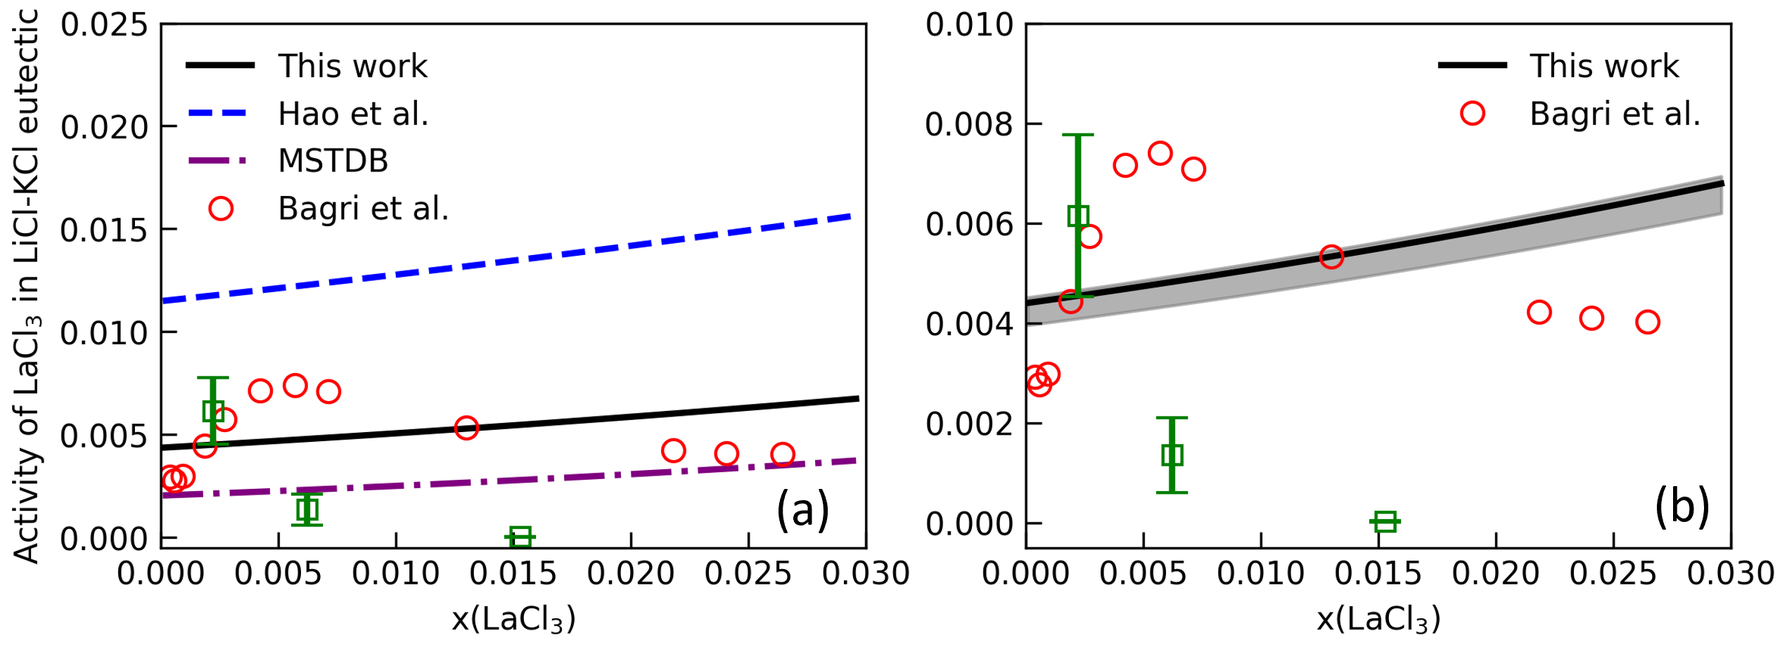
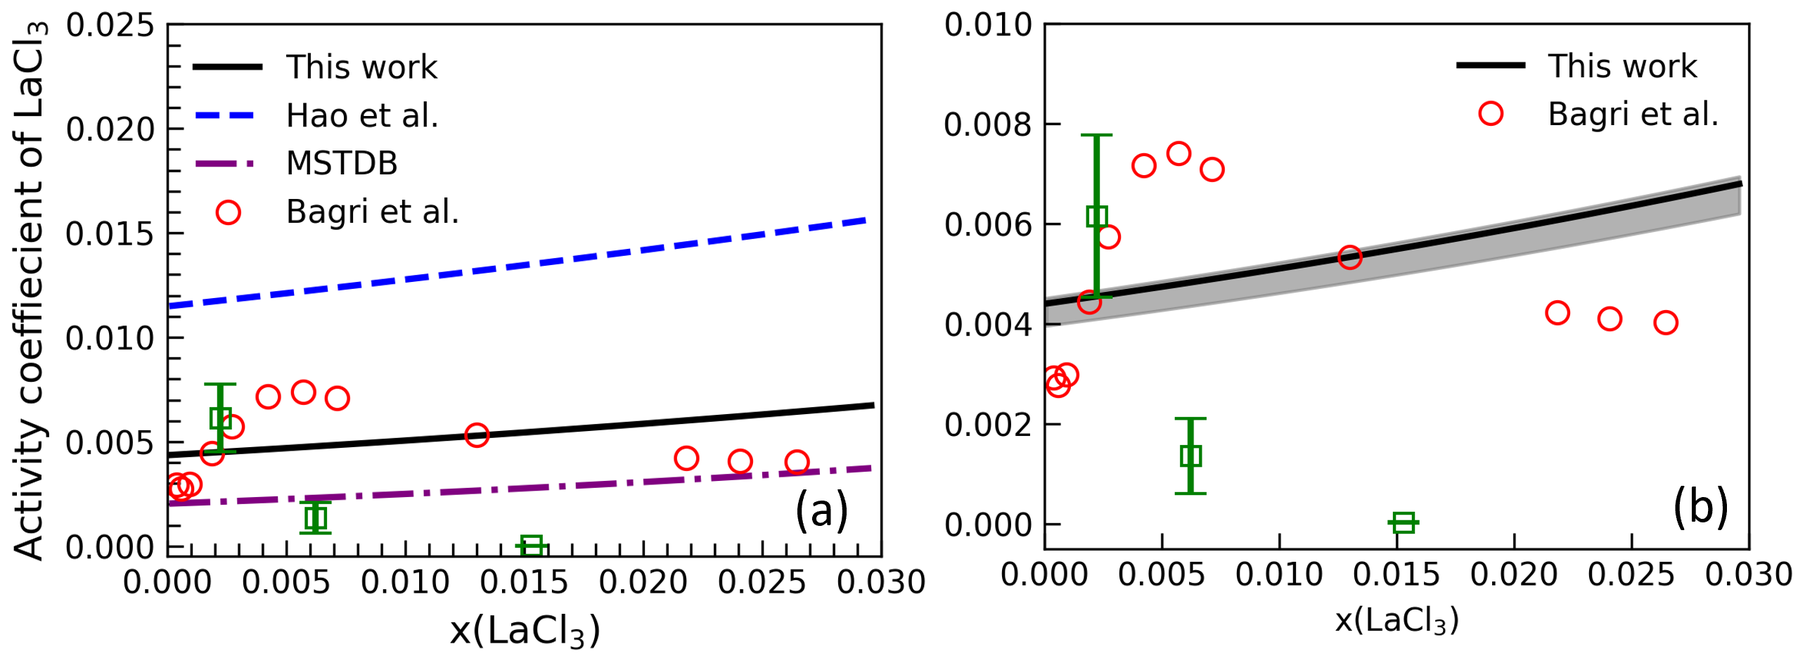
Final version

diff --git a/moltensalts.tex b/moltensalts.tex
@@ -354,7 +354,7 @@ In the CALPHAD community, several thermodynamic models, including the associate 
 
 The LiCl-KCl-LaCl$_3$ system contains the liquid phase, three binary compounds of LiCl, KCl, and LaCl$_3$, and two ternary compounds of K$_2$LaCl$_5$ and K$_3$La$_5$Cl$_{18}$ as summarized by Hao et al. \cite{hao2024thermodynamic}. K$_2$LaCl$_5$ was reported with a Pnma structure measured by Meyer et al. \cite{meyer1983k2mcl5}. Seifert et al. \cite{seifert1985thermodynamic} determined the structure of K$_3$La$_5$Cl$_{18}$ with a space group of $P6_3/m$ through X-ray diffraction. The values of formation enthalpy of K$_2$LaCl$_5$ and K$_3$La$_5$Cl$_{18}$ were measured by Seifert et al. \cite{seifert1985thermodynamic} using solution calorimetry. Reuter and Seifert \cite{reuter1994heat} reported the heat capacity values of K$_2$LaCl$_5$ and K$_3$La$_5$Cl$_{18}$ using differential scanning calorimetry (DSC). Gaune-Escard and Rycerz \cite{gaune1999heat} also measured the heat capacity of K$_3$La$_5$Cl$_{18}$ using DSC. Papatheodorou and Ostvold \cite{papatheodorou1974thermodynamic} reported mixing enthalpy in KCl-LaCl$_3$ through calorimetric experiments. Qiao et al. \cite{qiao1989measurement} utilized the differential thermal analysis (DTA) techniques to determine melting and phase transition temperatures. In the KCl-LaCl$_3$ system, Song and Zheng \cite{song1995investigation} measured liquidus by DTA. Seifert et al. \cite{seifert1985thermodynamic} measured phase boundaries in the LaCl$_3$-rich range by DTA.
 
-In the ternary LiCl-KCl-LaCl$_3$ system, Bagri and Simpson \cite{bagri2016determination} and Samin et al. \cite{samin2016estimation} reported activity values for LaCl$_3$ in molten LiCl-KCl eutectic salt using electromotive force measurements and cyclic voltammetry, respectively. Regarding the phase diagram, Song and Zheng \cite{song1995investigation} reported the liquidus projection and six isopleths. Two research works, by Nakamura et al. \cite{nakamura1997thermal} and Venkata Krishnan et al. \cite{venkata2006pseudo}, constructed the pseudo-binary phase diagram from the LiCl-KCl eutectic to 25 mol\% of LaCl$_3$ in the LiCl-KCl eutectic through DSC.
+In the ternary LiCl-KCl-LaCl$_3$ system, Bagri and Simpson \cite{bagri2016determination} and Samin et al. \cite{samin2016estimation} reported activity coefficients values for LaCl$_3$ in molten LiCl-KCl eutectic salt using electromotive force measurements and cyclic voltammetry, respectively. Regarding the phase diagram, Song and Zheng \cite{song1995investigation} reported the liquidus projection and six isopleths. Two research works, by Nakamura et al. \cite{nakamura1997thermal} and Venkata Krishnan et al. \cite{venkata2006pseudo}, constructed the pseudo-binary phase diagram from the LiCl-KCl eutectic to 25 mol\% of LaCl$_3$ in the LiCl-KCl eutectic through DSC. Mixing enthalpies of LaCl$_3$ in LiCl-KCl eutectic with the LaCl3 concentration from 0 to ~80 mol\% have also been studied by Goncharov et al. \cite{Goncharov2024}, using both high-temperature drop calorimetry and ab initio molecular dynamics. 
 
 \subsection{Modeling details} \label{moltensalts:ssec:LaCl3model}
 Four frequently used models to describe complex molten salts are considered for the liquid phase in the KCl-LaCl$_3$, including the associate model \cite{sommer1982association}, the two-sublattice ionic model \cite{hillert1985two}, and the MQMQA \cite{pelton2001modified} (two sets of coordination numbers). 
@@ -420,7 +420,7 @@ where $g_{\rm KLa/{\rm Cl}_2}^{ij}$is a function of temperature and independent 
 \end{equation}
 where $X_{\rm KLa:Cl_2}$ is the fraction of $\left(\rm KLaCl_2\right)_{quad}$. 
 
-All model parameters in the present work were optimized through the Bayesian approach using the MCMC method as implemented in ESPEI \cite{bocklund2019espei}. Each model parameter employed two Markov chains with a standard derivation of 0.1 when initializing its Gaussian distribution. During the modeling process, the chain values can be tracked and the MCMC processes were performed until the model parameters converged. The input data included primarily experimental phase equilibrium data for two or more co-existing phases, mixing enthalpy data, and activity data from the literature. For stochiometric compounds, their thermochemical data from DFT-based calculations were also used as input. 
+All model parameters in the present work were optimized through the Bayesian approach using the MCMC method as implemented in ESPEI \cite{bocklund2019espei}. Each model parameter employed two Markov chains with a standard derivation of 0.1 when initializing its Gaussian distribution. During the modeling process, the chain values can be tracked and the MCMC processes were performed until the model parameters converged. The input data included primarily experimental phase equilibrium data for two or more co-existing phases, mixing enthalpy data, and activity coefficients data from the literature. For stochiometric compounds, their thermochemical data from DFT-based calculations were also used as input. 
 
 The ternary compounds in the KCl-LaCl$_3$ system are considered stoichiometric compounds, including K$_2$LaCl$_5$ and K$_3$La$_5$Cl$_{18}$. Thermodynamic functions of the binary endmembers KCl and LaCl$_3$ are sourced from the JANAF tables \cite{chase1982janaf} and the SSUB database \cite{sgteurl}. The Gibbs energy for a given compound is expressed as in (\ref{ms:eq:Gstoi}). For these ternary compounds, their thermodynamic data including enthalpy, entropy, and heat capacity are obtained through DFT-based first-principles and phonon calculations. All DFT-based first-principles and phonon calculations in the present work were performed by the VASP \cite{kresse1996efficient}. The plane-wave basis cutoff energy was 262 eV for structural relaxations and 520 eV for the final static calculations of total energy. The convergent criterion of electronic self-consistency was set as $5\times10^{−6}$ eV/atom for relaxations and static calculations. Seifert et al. \cite{seifert1985thermodynamic} reported that K$_3$La$_5$Cl$_{18}$ possesses the symmetry of $P6_3/m$ with three Wyckoff sites of 2b, 2c, and 6h. However, the occupancy of the 2b site is less than 1, while the 2c site is occupied by both K and La atoms. Considering these, ATAT \cite{van2009multicomponent} was used to search for all possible configurations under these conditions, and 9 symmetry inequivalent configurations were found in terms of a 26-atom unit cell. The configuration with the lowest energy was predicted using DFT calculations. Phonon calculations were performed using the supercell method. Table \ref{ms:tab:ladftsetting} provides detailed settings for DFT-based first-principles and phonon calculations, including reciprocal k-points meshes and supercell sizes for phonon calculations, which ensures the convergence and accuracy of the DFT calculations.
 
@@ -532,7 +532,7 @@ Figure \ref{ms:fig:lacl3HMRfourm} shows the values of mixing enthalpy of liquid 
 
 According to phase diagrams (Figure \ref{ms:fig:lacl3PDfourm}) and mixing enthalpy predictions (Figure \ref{ms:fig:lacl3HMRfourm}), each model demonstrates a strength in predicting thermodynamic properties of the KCl-LaCl$_3$ system. Associate-M1 and Ionic-M2 perform well in predicting mixing enthalpy, showing a better match with experimental data as discussed above. However, these two models are less accurate in predicting phase boundaries compared to MQMQA-M3 and MQMQA-M4, especially in the LaCl$_3$-rich region. Choosing an appropriate model remains a challenge, as it requires balancing agreement with all available experimental data. A quantitative method is hence needed to determine the overall favorability for the models of study.
 
-Bayesian parameter estimation through MCMC offers a powerful tool to statistically compare models, as demonstrated in Section \ref{method:ssec:Bayesian}. In the present work, the last 600 iterations from MCMC were used to compute the marginal likelihood $p\left(D\middle| M\right)$ for each model. Table \ref{ms:tab:lacl3bayesK} lists the estimated marginal likelihood value for each model, indicating that MQMQA-M3 has the highest marginal likelihood value of $\ln(p\left(D\middle| M_3\right))$ = $-370.628$. Consequently, the Bayes factors for the other models were calculated with respect to MQMQA-M3, using the marginal likelihood value of MQMQA-M3 as the numerator in (\ref{method:eq:BayesFactor}). The interpretation of the Bayes factor is also included in Table \ref{ms:tab:lacl3bayesK} according to the guideline by Kass and Raftery \cite{kass1995bayes}. That is, a ${log}_{10}({\rm Bayes factor})$ value between 0 and 1/2 suggests not worth more than a bare mention in comparing two models even if it points very slightly towards the model at the denominator, a range of 1/2 to 1 indicates substantial evidence in favor of the model at the denominator, 1 to 2 denotes strong evidence, and a value greater than 2 represents decisive evidence in favor of the model at the denominator. The present results indicate that the marginal likelihoods of Ionic-M2 $\ln(p\left(D\middle| M_2\right))$ = $-373.410$ and MQMQA-M4 $\ln(p\left(D\middle| M_4\right))$ = $-371.420$ are close to that of MQMQA-M3. In contrast, the marginal likelihood of Associate-M1 $\ln(p\left(D\middle| M_1\right))$ = $-439.135$ is significantly lower than that of MQMQA-M3, indicating that the Associate-M1 model is less favorable compared to the other three models. The Bayes factor ${log}_{10}K_{M3/M1}$ is 29.752, suggesting decisive evidence of favoring MQMQA-M3 over Associate-M1. This is due to the larger discrepancy in phase boundary predictions from Associate-M1 compared to the experimental phase diagram data shown in Figure \ref{ms:fig:lacl3PDfourm}(a). Regarding the Ionic-M2, the Bayes factor ${log}_{10}K_{M3/M2}$ = 1.208 indicates strong evidence of favoring MQMQA-M3 over Ionic-M2. Additionally, the Bayes factor comparing the two MQMQA models, ${log}_{10}K_{M3/M4}$, is 0.344, suggesting that MQMQA-M3 is slightly favored over MQMQA-M4, but not worth a bare mention when comparing these two models. It implies that the choice of these two sets of coordination numbers did not significantly affect the performance of MQMQA models in predicting thermodynamic properties in the KCl-LaCl$_3$ system. 
+Bayesian parameter estimation through MCMC offers a powerful tool to statistically compare models, as demonstrated in Section \ref{method:ssec:Bayesian}. In the present work, the last 600 iterations from MCMC were used to compute the marginal likelihood $p\left(D\middle| M\right)$ for each model. Table \ref{ms:tab:lacl3bayesK} lists the estimated marginal likelihood value for each model, indicating that MQMQA-M3 has the highest marginal likelihood value of $\ln(p\left(D\middle| M_3\right))$ = $-370.628$. Consequently, the Bayes factors for the other models were calculated with respect to MQMQA-M3, using the marginal likelihood value of MQMQA-M3 as the numerator in (\ref{method:eq:BayesFactor}). The interpretation of the Bayes factor is also included in Table \ref{ms:tab:lacl3bayesK} according to the guideline by Kass and Raftery \cite{kass1995bayes}. That is, a ${log}_{10}({\rm Bayes factor})$ value between 0 and 1/2 suggests not worth more than a bare mention in comparing two models even if it points very slightly towards the model at the denominator, a range of 1/2 to 1 indicates substantial evidence in favor of the model at the denominator, 1 to 2 denotes strong evidence, and a value greater than 2 represents decisive evidence in favor of the model at the denominator. The present results indicate that the marginal likelihoods of Ionic-M2 $\ln(p\left(D\middle| M_2\right))$ = $-373.410$ and MQMQA-M4 $\ln(p\left(D\middle| M_4\right))$ = $-371.420$ are close to that of MQMQA-M3. In contrast, the marginal likelihood of Associate-M1 $\ln(p\left(D\middle| M_1\right))$ = $-435.136$ is significantly lower than that of MQMQA-M3, indicating that the Associate-M1 model is less favorable compared to the other three models. The Bayes factor ${log}_{10}K_{M3/M1}$ is 28.016, suggesting decisive evidence of favoring MQMQA-M3 over Associate-M1. This is due to the larger discrepancy in phase boundary predictions from Associate-M1 compared to the experimental phase diagram data shown in Figure \ref{ms:fig:lacl3PDfourm}(a). Regarding the Ionic-M2, the Bayes factor ${log}_{10}K_{M3/M2}$ = 1.208 indicates strong evidence of favoring MQMQA-M3 over Ionic-M2. Additionally, the Bayes factor comparing the two MQMQA models, ${log}_{10}K_{M3/M4}$, is 0.344, suggesting that MQMQA-M3 is slightly favored over MQMQA-M4, but not worth a bare mention when comparing these two models. It implies that the choice of these two sets of coordination numbers did not significantly affect the performance of MQMQA models in predicting thermodynamic properties in the KCl-LaCl$_3$ system. 
 
 \begin{table}[H]
     \caption{Summary of the predicted marginal likelihood and Bayes factor for each model with respect to those of MQMQA-M3, and the suggested strength of evidence according to Kass and Raftery \cite{kass1995bayes}.}
@@ -553,12 +553,12 @@ Bayesian parameter estimation through MCMC offers a powerful tool to statistical
 In summary, Bayesian parameter estimation through MCMC indicates that MQMQA-M3 is more favored, in terms of the input data of phase boundary and mixing enthalpy, over the other three models. This approach provides a robust technique for estimating the marginal likelihood values to assess the probability of data being generated by the model and calculating Bayes factors to statistically compare different models.
 
 \subsection{Thermodynamic modeling of the LiCl-KCl-LaC$_3$ system} \label{moltensalts:ssec:LaCl3ternarymodeling}
-The MQMQA-M3 is selected for the KCl-LaCl$_3$ system according to the Bayes factor. The ternary LiCl-KCl-LaCl$_3$ system is further improved by this model. The other two binary systems of LiCl-KCl and LiCl-LaCl$_3$ are taken from the MSTDB-TC \cite{ard2022development}. The available experimental data used for CALPHAD modeling include phase boundary data measured by Nakamura et al. \cite{nakamura1997thermal} and Venkata Krishnan et al. \cite{venkata2006pseudo}, activity data measured by Bagri and Simpson \cite{bagri2016determination} and Samin et al. \cite{samin2016estimation}, and mixing enthalpy data of LaCl$_3$ in LiCl-KCl eutectic. 
+The MQMQA-M3 is selected for the KCl-LaCl$_3$ system according to the Bayes factor. The ternary LiCl-KCl-LaCl$_3$ system is further improved by this model. The other two binary systems of LiCl-KCl and LiCl-LaCl$_3$ are taken from the MSTDB-TC \cite{ard2022development}. The available experimental data used for CALPHAD modeling include phase boundary data measured by Nakamura et al. \cite{nakamura1997thermal} and Venkata Krishnan et al. \cite{venkata2006pseudo}, activity coefficients data measured by Bagri and Simpson \cite{bagri2016determination} and Samin et al. \cite{samin2016estimation}, and mixing enthalpy data of LaCl$_3$ in LiCl-KCl eutectic \cite{Goncharov2024}. 
 
 \begin{figure} [H]
     \centering
     \includegraphics[width=1\linewidth]{moltensalts/Moltensalts-LaCl3-Gamma-Ternary-UQ.png}
-    \caption{(a) Activity coefficients of LaCl$_3$ in KCl-LiCl eutectic at 773 K calculated from the present modeling in comparison with the modeling works from Hao et al. \cite{hao2024thermodynamic} (blue dash line) and MSTDB-TC \cite{ard2022development} (purple dash-dotted line), experimental measurements by Bagri et al. \cite{bagri2016determination} (red circles) and Samin et al. \cite{samin2016estimation} (green squares). (b) The uncertainty of the present modeling in predicting activity is shown in the grey region using a 95\% credible interval in predicting the activity values.}
+    \caption{(a) Activity coefficients of LaCl$_3$ in KCl-LiCl eutectic at 773 K calculated from the present modeling in comparison with the modeling works from Hao et al. \cite{hao2024thermodynamic} (blue dash line) and MSTDB-TC \cite{ard2022development} (purple dash-dotted line), experimental measurements by Bagri et al. \cite{bagri2016determination} (red circles) and Samin et al. \cite{samin2016estimation} (green squares). (b) The uncertainty of the present modeling in predicting activity coefficients is shown in the grey region using a 95\% credible interval in predicting values.}
     \label{ms:fig:lacl3ternaryGammaUQ}
 \end{figure}
 
@@ -572,7 +572,7 @@ Thermodynamic properties predicted from the present CALPHAD modeling are compare
 \end{figure}
 
 
-Figure \ref{ms:fig:lacl3ternaryHMRUQ} shows the mixing enthalpy calculations at 873 K and 1133 K from the present modeling, in comparison with experimental data and modeling results by Hao et al. \cite{hao2024thermodynamic} and MSTDB-TC \cite{ard2022development}. In Figure \ref{ms:fig:lacl3ternaryHMRUQ}(a), at 873 K, all these three modeling works closely match experimental measurements for $x$(LaCl$_3$) < 0.2. For example, at $x$(LaCl$_3$) = 0.1926, the present modeling predicts a mixing enthalpy of $-4231$ J/mol, which is 51 J/mol lower than the experimental value of $-4180$ J/mol. In comparison, Hao et al. \cite{hao2024thermodynamic} predicts $-4266$ J/mol and MSTDB-TC \cite{ard2022development} predicts $-4659$ J/mol, showing larger differences of 86 J/mol and 389 J/mol, respectively. The MAE of the present modeling in predicting mixing enthalpy at 873 K is 101 J/mol, compared to 120 J/mol for Hao et al. \cite{hao2024thermodynamic} and 312 J/mol for MSTDB-TC \cite{ard2022development}, highlighting the improved accuracy of the present modeling. Figure \ref{ms:fig:lacl3ternaryHMRUQ}(a) also shows different curve shapes in the LaCl$_3$-rich region predicted by three modeling works. The present modeling predicts a minimum energy similar to that by MSTDB-TC \cite{ard2022development} at around -5650 J/mol, whereas Hao et al. \cite{hao2024thermodynamic} predicts a value of $-6186$ J/mol, which is around 540 J/mol lower mixing enthalpy. Note that experiments investigations at 1133 K primarily focus on the LaCl$_3$-rich region.
+Figure \ref{ms:fig:lacl3ternaryHMRUQ} shows the mixing enthalpy calculations at 873 K and 1133 K from the present modeling, in comparison with experimental data \cite{Goncharov2024} and modeling results by Hao et al. \cite{hao2024thermodynamic} and MSTDB-TC \cite{ard2022development}. In Figure \ref{ms:fig:lacl3ternaryHMRUQ}(a), at 873 K, all these three modeling works closely match experimental measurements for $x$(LaCl$_3$) < 0.2. For example, at $x$(LaCl$_3$) = 0.1926, the present modeling predicts a mixing enthalpy of $-4231$ J/mol, which is 51 J/mol lower than the experimental value of $-4180$ J/mol. In comparison, Hao et al. \cite{hao2024thermodynamic} predicts $-4266$ J/mol and MSTDB-TC \cite{ard2022development} predicts $-4659$ J/mol, showing larger differences of 86 J/mol and 389 J/mol, respectively. The MAE of the present modeling in predicting mixing enthalpy at 873 K is 101 J/mol, compared to 120 J/mol for Hao et al. \cite{hao2024thermodynamic} and 312 J/mol for MSTDB-TC \cite{ard2022development}, highlighting the improved accuracy of the present modeling. Figure \ref{ms:fig:lacl3ternaryHMRUQ}(a) also shows different curve shapes in the LaCl$_3$-rich region predicted by three modeling works. The present modeling predicts a minimum energy similar to that by MSTDB-TC \cite{ard2022development} at around -5650 J/mol, whereas Hao et al. \cite{hao2024thermodynamic} predicts a value of $-6186$ J/mol, which is around 540 J/mol lower mixing enthalpy. Note that experiments investigations at 1133 K primarily focus on the LaCl$_3$-rich region.
 
 Figure \ref{ms:fig:lacl3ternaryHMRUQ}(b) indicates that both Hao et al. \cite{hao2024thermodynamic} and MSTDB-TC \cite{ard2022development} predict lower values of mixing enthalpy compared to the present modeling and experiments. The present work improves the accuracy of mixing enthalpy predictions, reducing the MAE to 45.84 J/mol, compared to 159.75 J/mol by Hao et al. \cite{hao2024thermodynamic} and 183.30 J/mol by MSTDB-TC \cite{ard2022development}. Figure \ref{ms:fig:lacl3ternaryHMRUQ}(c) presents the uncertainty quantification of the present modeling in predicting mixing enthalpy, represented by the 95\% credible interval. At 873 K, the uncertainty range in predicting mixing enthalpy is around $-$5\% to +5\%. At 1133 K, the uncertainty range in predicting mixing enthalpy is around $-$6\% to +6\% with all existing experimental data falling within the lower boundary of the uncertainty region. This implies that the present modeling might underestimate the mixing enthalpy, particularly around $x$(LaCl$_3$) = 0.4. Further experiments or simulations in this composition range are recommended to enhance the accuracy of the present CALPHAD modeling. Figure \ref{ms:fig:lacl3quacf} shows the predicted fraction of each quadruplet in the liquid phase. The peak fractions of the LiLa/ClCl and LaK/ClCl quadruplets appear around $x$(LaCl$_3$) = 0.4, indicating the shorting range ordering (SRO) and it is consistent with the lowest mixing enthalpy around $x$(LaCl$_3$) = 0.4. 
 
@@ -595,4 +595,4 @@ Figure \ref{ms:fig:lacl3ternaryisopleth} shows the partial isopleth between the 
 \section{Summary} \label{moltensalts:sec:Summary}
 This chapter investigates the thermodynamic properties of compounds and liquids in the (LiF, NaF, KF, CrF$_2$)-CrF$_3$ systems by utilizing CALPHAD modeling with inputs from the DFT-based first-principles, phonon, and AIMD calculations. Thermodynamic properties, including enthalpy, entropy, and heat capacity of the binary (endmember) compounds LiF, NaF, KF, CrF$_3$, and CrF$_2$ as a function of temperature, have been predicted by DFT-based phonon calculations, agreeing with available experimental data in the literature and validating the reliability of the present methodology. They enabled the remodeling of the (LiF, NaF, KF, CrF$_2$)-CrF$_3$ systems with more accurate inputs. The MQMQA is employed to describe the liquid phase, providing valuable insights into the complex nature of molten salts such as the short-range ordering and neighboring of cations. Phase equilibria from the present CALPHAD modeling match better with experimental data in comparison with previous modeling work in the literature. The present thermodynamic data, including equilibrium volumes, bulk moduli, enthalpies, entropies, and heat capacities of compounds in the (LiF, NaF, KF, CrF$_2$)-CrF$_3$ system can be used to facilitate the development of advanced molten salt reactors.
 
-In addition, this chapter demonstrates an application of Bayesian model selection to identify the optimal model for describing atomic environments in molten salts, focusing on the KCl-LaCl$_3$ system. Four candidate models are considered, which are the associate model, the two-sublattice ionic model, and two MQMQA models with different coordination numbers. By estimating the marginal likelihoods of each model from MCMC optimization and calculating Bayes factors to compare models, one of the MQMQA models is suggested as the most favorable one to describe the KCl-LaCl$_3$ system based on available input data. DFT-based calculations provide important thermodynamic properties for compounds in KCl-LaCl$_3$, including equilibrium volumes, bulk moduli, enthalpies, entropies, and heat capacities. Furthermore, the ternary LiCl-KCl-LaCl$_3$ system is modeled, demonstrating a better agreement with experimental data compared to the previous CALPHAD modeling works in the literature. The uncertainty quantification and propagation show that the present modeling provides reliable predictions of activity and mixing enthalpy when compared with experimental data. The present work indicates that the Bayesian model selection approach facilitates a more rational comparison among different liquid models, enhancing the accuracy of thermodynamic predictions in molten salts.
+In addition, this chapter demonstrates an application of Bayesian model selection to identify the optimal model for describing atomic environments in molten salts, focusing on the KCl-LaCl$_3$ system. Four candidate models are considered, which are the associate model, the two-sublattice ionic model, and two MQMQA models with different coordination numbers. By estimating the marginal likelihoods of each model from MCMC optimization and calculating Bayes factors to compare models, one of the MQMQA models is suggested as the most favorable one to describe the KCl-LaCl$_3$ system based on available input data. DFT-based calculations provide important thermodynamic properties for compounds in KCl-LaCl$_3$, including equilibrium volumes, bulk moduli, enthalpies, entropies, and heat capacities. Furthermore, the ternary LiCl-KCl-LaCl$_3$ system is modeled, demonstrating a better agreement with experimental data compared to the previous CALPHAD modeling works in the literature. The uncertainty quantification and propagation show that the present modeling provides reliable predictions of activity coefficients and mixing enthalpy when compared with experimental data. The present work indicates that the Bayesian model selection approach facilitates a more rational comparison among different liquid models, enhancing the accuracy of thermodynamic predictions in molten salts.

diff --git a/conclusion.tex b/conclusion.tex
@@ -20,5 +20,5 @@ Several thermodynamic models widely used in the broader scientific community can
 
 Uncertainty quantification in CALPHAD modeling is anticipated to play an increasingly important role in materials design. The uncertainty associated with model parameters has been thoroughly examined \cite{paulson2019quantified} and can be propagated into property predictions. This work explored the use of the Bayes factor for statistical comparison between thermodynamic models. The marginal likelihood, which reflects the probability of the input data given the current model, serves as an indicator of how well the model describes the input data, thereby quantifying model performance. However, alternative methods for estimating marginal likelihood can provide a more nuanced understanding of model performance. Additionally, it is crucial to address the incorporation of input data uncertainty into CALPHAD modeling, which remains an area for further development. Greater attention and research are needed to thoroughly investigate the uncertainties associated with both the model itself and the input data.
 
-CALPHAD modeling involves managing a substantial data flow. The process requires the collection of experimental data for parameter optimization, but such data—particularly for systems like molten salts—can be scarce due to the challenges of conducting experiments under extreme conditions. As machine learning (ML) and atomistic simulation methods including DFT and ML-based Molecular Dyanmiacs continue to advance, large volumes of data are being generated that can be integrated into CALPHAD modeling to enhance its accuracy and scope. Additionally, CALPHAD modeling itself produces extensive information, including property predictions and phase equilibrium data. This growing complexity underscores the need for a robust platform that facilitates the exchange and storage of these diverse data sets, enabling more efficient collaboration within the broad community. Building on this data foundation, a data-driven, automated CALPHAD modeling workflow can be developed. With the open-source CALPHAD modeling tools PyCalphad and ESPEI as computational engines, this workflow can maximize the robustness of data collection and enable smooth conversion of data formats. Moreover, it can minimize manual processes during parameterization and refinement, thereby significantly enhancing high-throughput CALPHAD modeling and accelerating progress in materials design and discovery. 
+CALPHAD modeling involves managing a substantial data flow. The process requires collecting experimental data for parameter optimization. Still, such data—particularly for systems like molten salts—can be scarce due to the challenges of conducting experiments under extreme conditions. As machine learning (ML) and atomistic simulation methods including DFT and ML-based Molecular Dyanmiacs continue to advance, large volumes of data are being generated that can be integrated into CALPHAD modeling to enhance its accuracy and scope. Using Zentropy theory \cite{liu2022zentropy, liu2024zentropy}, Helmholtz energy can be predicted without the need for fitting parameters, making it a valuable dataset for CALPHAD modeling. Additionally, CALPHAD modeling itself produces extensive information, including property predictions and phase equilibrium data. This growing complexity underscores the need for a robust platform that facilitates the exchange and storage of these diverse data sets, enabling more efficient collaboration within the broad community. Building on this data foundation, a data-driven, automated CALPHAD modeling workflow can be developed. With the open-source CALPHAD modeling tools PyCalphad and ESPEI as computational engines, this workflow can maximize the robustness of data collection and enable smooth conversion of data formats. Moreover, it can minimize manual processes during parameterization and refinement, thereby significantly enhancing high-throughput CALPHAD modeling and accelerating progress in materials design and discovery. 
 

diff --git a/main.tex b/main.tex
@@ -161,7 +161,7 @@ This section is currently under preparation.
 {
 \centering
 The Pennsylvania State University\\
-The Graduate School\\
+The J. Jeffrey and Ann Marie Fox Graduate School\\
 \vfill
 \setstretch{2}
 {
@@ -280,7 +280,7 @@ title={Bibliography}
 \vspace{-6pt}
 
 {\small
-Rushi Gong was born on October 15, 1997, in Yiyang, Hunan Province, China. She grew up in Changsha, Hunan, and later moved to Shenzhen, Guangdong. In 2019, she graduated from Beihang University in Beijing, China, with a B.S. in Materials Science and Engineering and a minor in Mathematics. In 2020, Rushi began her Ph.D. studies at the Pennsylvania State University, advised by Dr. Zi-Kui Liu. Listed below are the publications she contributed to during her Ph.D.:
+Rushi Gong was born in Yiyang, Hunan Province, China. She grew up in Changsha, Hunan, and later moved to Shenzhen, Guangdong. In 2019, she graduated from Beihang University in Beijing, China, with a B.S. in Materials Science and Engineering and a minor in Mathematics. In 2020, Rushi began her Ph.D. studies at the Pennsylvania State University, advised by Dr. Zi-Kui Liu. Listed below are the publications she contributed to during her Ph.D.:
 \fontsize{10}{10}\selectfont
 \input{publications}
 }

diff --git a/publications.tex b/publications.tex
@@ -11,8 +11,12 @@
 % <Link>
 
 %Model selection LaCl3-LiCl-KCl
-\item \textbf{R. Gong}, S.L. Shang, V. G. Goncharov, X. Guo, and Z.K. Liu, Thermodynamic modeling of the LiCl-KCl-LaCl system with Bayesian model selection and uncertainty quantification, preprint at
+\item \textbf{R. Gong}, S.L. Shang, V.G. Goncharov, X. Guo, and Z.K. Liu, Thermodynamic modeling of the LiCl-KCl-LaCl$_3$ system with Bayesian model selection and uncertainty quantification, preprint at
 \href{https://arxiv.org/abs/2406.15223}{arXiv:2406.15223}.
+
+%MIVM and Expt LaCl3-LiCl-KCl
+\item V.G. Goncharov, W. Smith, J. Li, J.A. Eakin, E.D. Reinhart, J. Boncella, L.D. Gibson, V.S. Bryantsev, \textbf{R. Gong}, S.L. Shang, Z.K. Liu, H. Xu, A. Clark, X. Guo, Molecular interaction volume model of mixing enthalpy for molten salt system: An integrated calorimetry-model case study of LaCl$_3$-(LiCl-KCl), preprint at 
+\href{https://arxiv.org/abs/2408.16943}{arXiv:2408.16943}.
 
 %QHA model selection
 \item S.L. Shang, \textbf{R. Gong}, M.C. Gao, D. Pagan, and Z.K. Liu,
